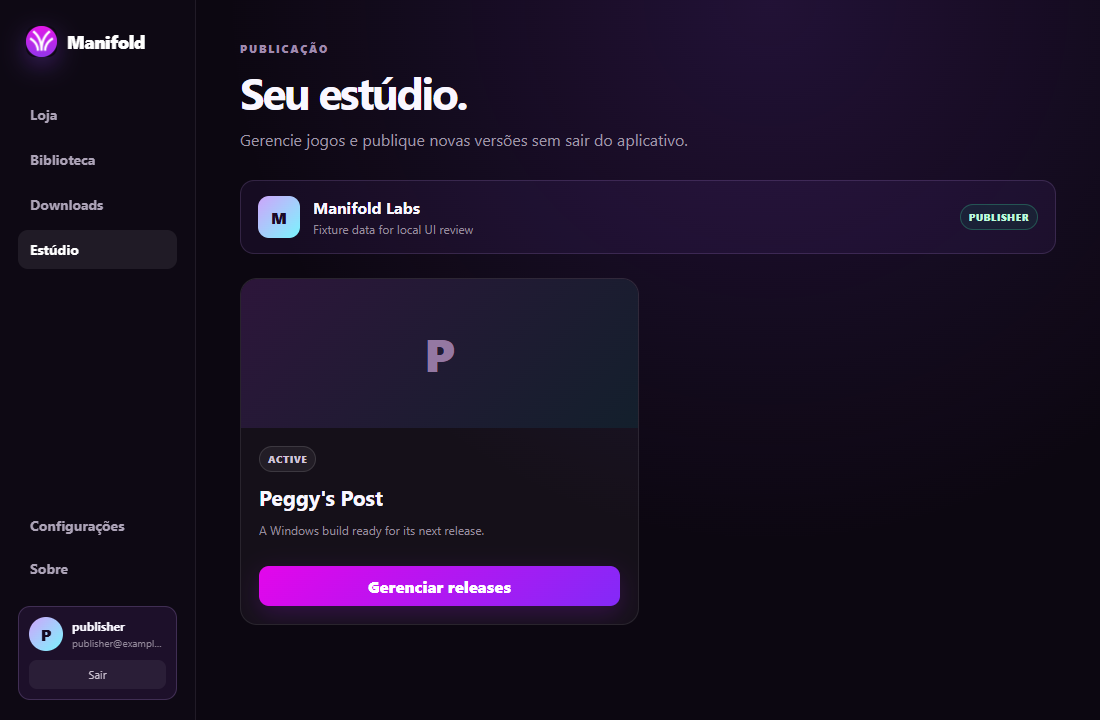
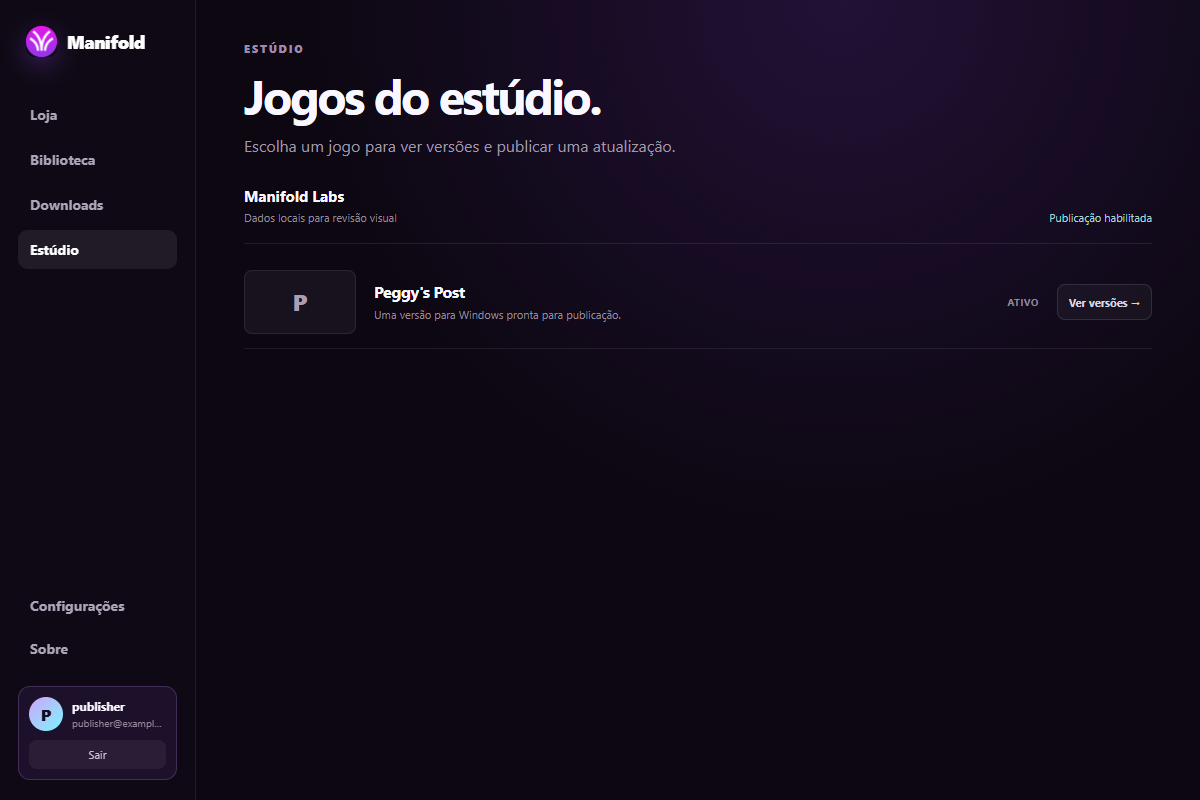
Refresh publisher visual review assets

diff --git a/docs/assets/publisher/README.md b/docs/assets/publisher/README.md
@@ -1,17 +1,21 @@
 # Publisher flow screenshots
 
-These screenshots were captured from the real Tauri desktop window using the
-development-only publisher fixture adapter. They exercise the production UI
-and recovery state without calling the production API or uploading an artifact.
+These screenshots were captured from the real Tauri desktop window at the same
+1200 × 800 viewport using the development-only publisher fixture adapter. They
+exercise the production UI and recovery state without calling the production
+API or uploading an artifact.
 
-1. `01-studio.png` — authorized studio and game selection
-2. `02-release-data.png` — release version and notes
-3. `03-file-preflight.png` — selected Windows x86-64 ZIP
-4. `04-entrypoint-manifest.png` — native preflight results and manifest review
+0. `00-home-reference.png` — current Home used as the visual reference
+1. `01-studio.png` — authorized studio and compact game list
+2. `02-release-data.png` — version details and player-facing notes
+3. `03-file-preflight.png` — selected Windows 64-bit ZIP before local analysis
+4. `04-entrypoint-manifest.png` — native analysis results, main executable, and
+   collapsed technical details
 5. `05-upload.png` — direct-storage upload progress
-6. `06-verification.png` — storage verification and publication
-7. `07-success.png` — published release confirmation
+6. `06-verification.png` — final verification and publication
+7. `07-success.png` — version ready for players
 
 The displayed account, studio, game, release, and upload progress are fixture
-data. The archive sizes, checksum, and executable paths mirror the provided
-Peggy's Post sample and were independently verified by the native preflight CLI.
+data in pt-BR. The archive sizes, checksum, and executable paths mirror the
+provided Peggy's Post sample and were independently verified by the native
+preflight CLI. No signed URL, cookie, token, or local user path is displayed.
